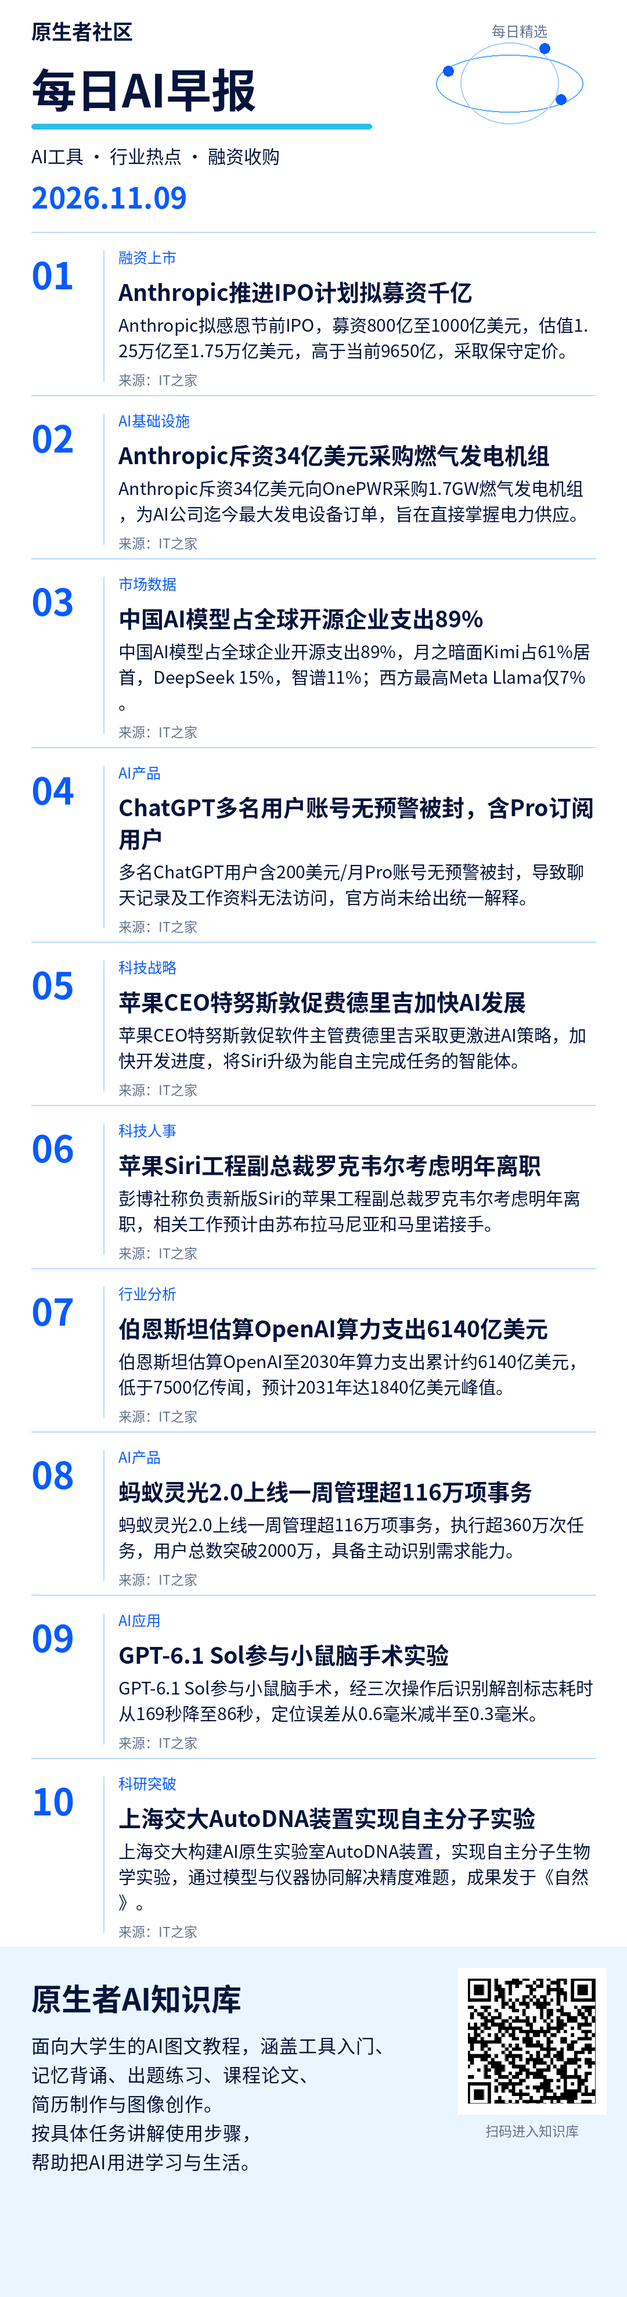
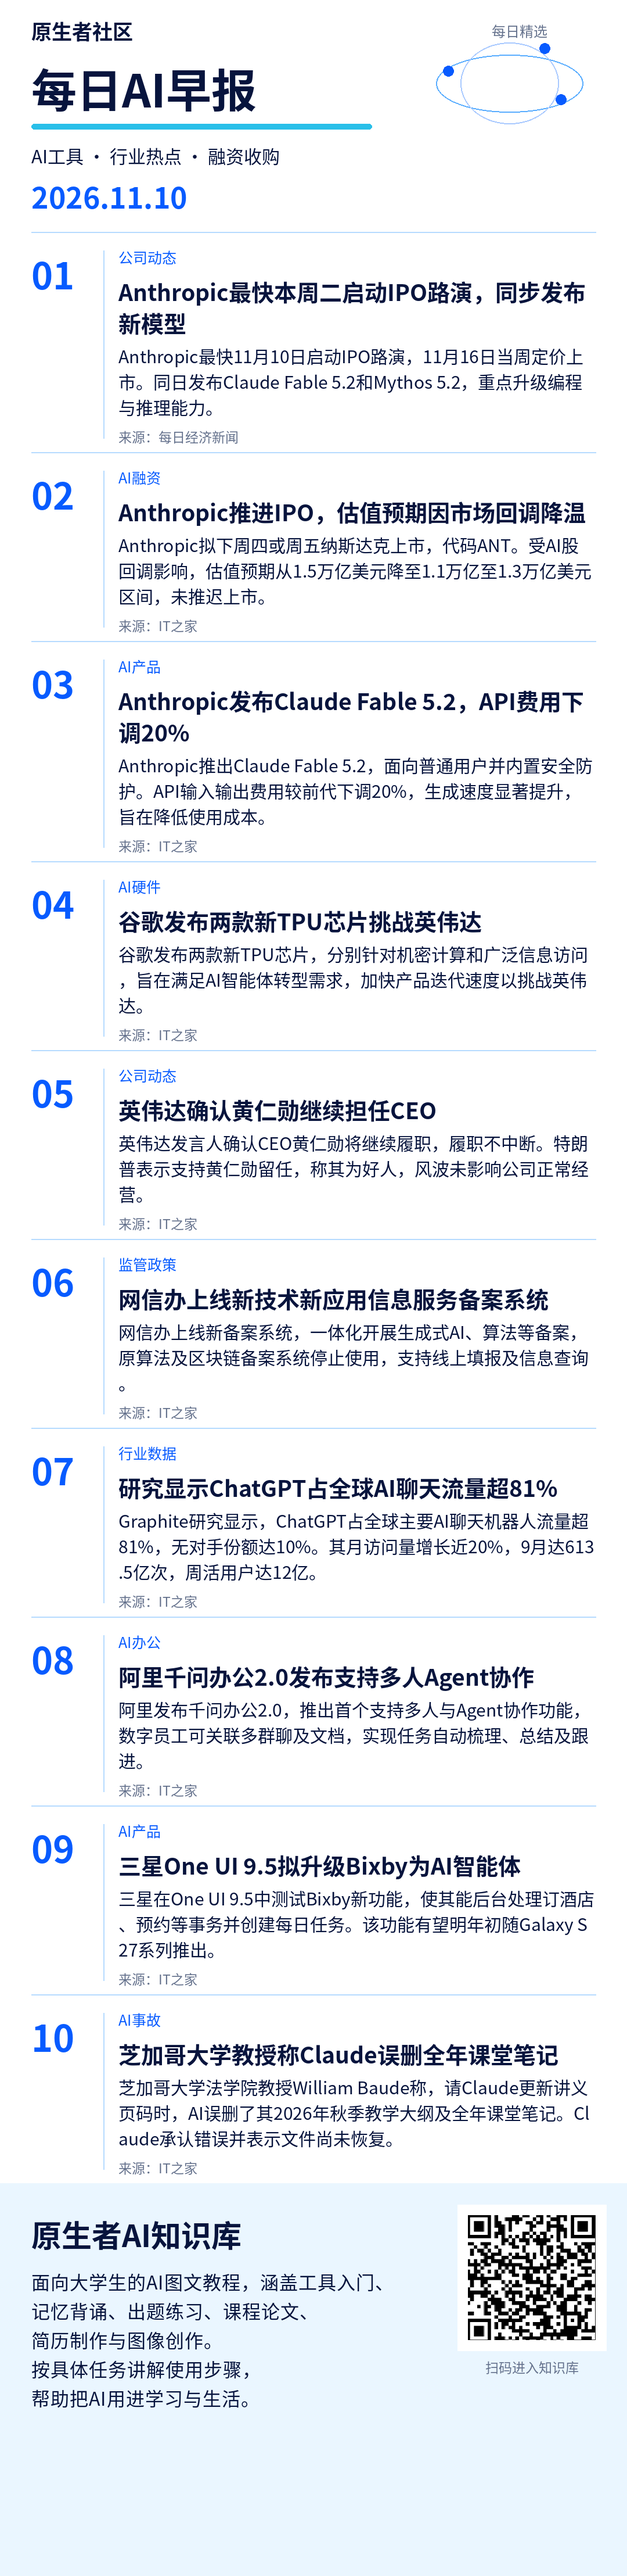
Publish mobile brief 2026-11-10

diff --git a/index.html b/index.html
@@ -2,16 +2,16 @@
 <html lang="zh-CN"><meta charset="utf-8"><meta name="viewport" content="width=device-width, initial-scale=1">
 <title>原生者社区 · 每日AI早报</title>
 <style>body{margin:0;background:#f4f6fa;color:#18263d;font-family:system-ui,sans-serif}main{max-width:680px;margin:auto;padding:24px 16px}h1{font-size:25px;margin:8px 0}p{line-height:1.7}small{color:#59677c}section{background:white;padding:20px;border-radius:16px;margin:20px 0}img{width:100%;height:auto;display:block}a,button{display:inline-block;background:#182f55;color:white;padding:12px 18px;border:0;border-radius:10px;text-decoration:none;font-size:16px}textarea{box-sizing:border-box;width:100%;height:360px;border:1px solid #d5dce7;border-radius:10px;padding:12px;font:16px/1.7 system-ui;resize:vertical}#status{min-height:28px;color:#345786}</style>
-<main><small>原生者社区</small><h1>每日AI早报</h1><p>2026-11-09</p>
+<main><small>原生者社区</small><h1>每日AI早报</h1><p>2026-11-10</p>
 <section><h2>简报图片</h2><p>长按下面的图片，选择“保存图片”，即可发到群里。</p>
 <a href="brief.png" target="_blank" rel="noopener">打开完整图片</a><p></p><img src="brief.png" alt="原生者社区每日简报"></section>
-<section><h2>每日群发内容</h2><p><a href="https://www.ithome.com/1/023/854.htm" target="_blank" rel="noopener">Anthropic推进IPO计划拟募资千亿</a></p><p><a href="https://www.ithome.com/1/023/989.htm" target="_blank" rel="noopener">Anthropic斥资34亿美元采购燃气发电机组</a></p><p><a href="https://wcno0em1rfbm.feishu.cn/wiki/IcZxwEt2JilbR9krKlKcc0naned" target="_blank" rel="noopener">Gemini 出题与弱项复测导读</a></p><textarea id="copy" readonly>1. Anthropic推进IPO计划拟募资千亿
-https://www.ithome.com/1/023/854.htm
+<section><h2>每日群发内容</h2><p><a href="https://www.nbd.com.cn/articles/2026-11-10/4643164.html" target="_blank" rel="noopener">Anthropic最快本周二启动IPO路演，同步发布新模型</a></p><p><a href="https://www.ithome.com/1/024/576.htm" target="_blank" rel="noopener">Anthropic推进IPO，估值预期因市场回调降温</a></p><p><a href="https://wcno0em1rfbm.feishu.cn/wiki/GwZ5wLwtFiIPYyk8BOdcfTtPnHe" target="_blank" rel="noopener">GPT-6 Astra 最被低估的用法，居然在这里？</a></p><textarea id="copy" readonly>1. Anthropic最快本周二启动IPO路演，同步发布新模型
+https://www.nbd.com.cn/articles/2026-11-10/4643164.html
 
-2. Anthropic斥资34亿美元采购燃气发电机组
-https://www.ithome.com/1/023/989.htm
+2. Anthropic推进IPO，估值预期因市场回调降温
+https://www.ithome.com/1/024/576.htm
 
-这篇展示用教材或研究报告生成测验、查看反馈，再针对薄弱部分重新出题的过程，适合做完一轮练习后查漏补缺。
-https://wcno0em1rfbm.feishu.cn/wiki/IcZxwEt2JilbR9krKlKcc0naned</textarea><p></p>
+参考作者对写作措辞、长对话与功能使用的整理；具体功能与适用条件需结合所用版本判断。
+https://wcno0em1rfbm.feishu.cn/wiki/GwZ5wLwtFiIPYyk8BOdcfTtPnHe</textarea><p></p>
 <button id="copyButton" type="button">复制群发内容</button><p id="status" role="status"></p></section></main>
 <script>document.getElementById('copyButton').onclick=async()=>{const t=document.getElementById('copy');const s=document.getElementById('status');try{await navigator.clipboard.writeText(t.value);s.textContent='已复制，可以粘贴到群里。';}catch(e){t.focus();t.select();t.setSelectionRange(0,t.value.length);try{if(!document.execCommand('copy'))throw Error();s.textContent='已复制，可以粘贴到群里。';}catch(e){s.textContent='已选中配文，请长按文字，选择复制。';}}};</script></html>

diff --git a/2026-11-10/176a9b74aee4fb29/index.html b/2026-11-10/176a9b74aee4fb29/index.html
@@ -1,0 +1,17 @@
+<!doctype html>
+<html lang="zh-CN"><meta charset="utf-8"><meta name="viewport" content="width=device-width, initial-scale=1">
+<title>原生者社区 · 每日AI早报</title>
+<style>body{margin:0;background:#f4f6fa;color:#18263d;font-family:system-ui,sans-serif}main{max-width:680px;margin:auto;padding:24px 16px}h1{font-size:25px;margin:8px 0}p{line-height:1.7}small{color:#59677c}section{background:white;padding:20px;border-radius:16px;margin:20px 0}img{width:100%;height:auto;display:block}a,button{display:inline-block;background:#182f55;color:white;padding:12px 18px;border:0;border-radius:10px;text-decoration:none;font-size:16px}textarea{box-sizing:border-box;width:100%;height:360px;border:1px solid #d5dce7;border-radius:10px;padding:12px;font:16px/1.7 system-ui;resize:vertical}#status{min-height:28px;color:#345786}</style>
+<main><small>原生者社区</small><h1>每日AI早报</h1><p>2026-11-10</p>
+<section><h2>简报图片</h2><p>长按下面的图片，选择“保存图片”，即可发到群里。</p>
+<a href="brief.png" target="_blank" rel="noopener">打开完整图片</a><p></p><img src="brief.png" alt="原生者社区每日简报"></section>
+<section><h2>每日群发内容</h2><p><a href="https://www.nbd.com.cn/articles/2026-11-10/4643164.html" target="_blank" rel="noopener">Anthropic最快本周二启动IPO路演，同步发布新模型</a></p><p><a href="https://www.ithome.com/1/024/576.htm" target="_blank" rel="noopener">Anthropic推进IPO，估值预期因市场回调降温</a></p><p><a href="https://wcno0em1rfbm.feishu.cn/wiki/GwZ5wLwtFiIPYyk8BOdcfTtPnHe" target="_blank" rel="noopener">GPT-6 Astra 最被低估的用法，居然在这里？</a></p><textarea id="copy" readonly>1. Anthropic最快本周二启动IPO路演，同步发布新模型
+https://www.nbd.com.cn/articles/2026-11-10/4643164.html
+
+2. Anthropic推进IPO，估值预期因市场回调降温
+https://www.ithome.com/1/024/576.htm
+
+参考作者对写作措辞、长对话与功能使用的整理；具体功能与适用条件需结合所用版本判断。
+https://wcno0em1rfbm.feishu.cn/wiki/GwZ5wLwtFiIPYyk8BOdcfTtPnHe</textarea><p></p>
+<button id="copyButton" type="button">复制群发内容</button><p id="status" role="status"></p></section></main>
+<script>document.getElementById('copyButton').onclick=async()=>{const t=document.getElementById('copy');const s=document.getElementById('status');try{await navigator.clipboard.writeText(t.value);s.textContent='已复制，可以粘贴到群里。';}catch(e){t.focus();t.select();t.setSelectionRange(0,t.value.length);try{if(!document.execCommand('copy'))throw Error();s.textContent='已复制，可以粘贴到群里。';}catch(e){s.textContent='已选中配文，请长按文字，选择复制。';}}};</script></html>

diff --git a/2026-11-10/index.html b/2026-11-10/index.html
@@ -1,0 +1,17 @@
+<!doctype html>
+<html lang="zh-CN"><meta charset="utf-8"><meta name="viewport" content="width=device-width, initial-scale=1">
+<title>原生者社区 · 每日AI早报</title>
+<style>body{margin:0;background:#f4f6fa;color:#18263d;font-family:system-ui,sans-serif}main{max-width:680px;margin:auto;padding:24px 16px}h1{font-size:25px;margin:8px 0}p{line-height:1.7}small{color:#59677c}section{background:white;padding:20px;border-radius:16px;margin:20px 0}img{width:100%;height:auto;display:block}a,button{display:inline-block;background:#182f55;color:white;padding:12px 18px;border:0;border-radius:10px;text-decoration:none;font-size:16px}textarea{box-sizing:border-box;width:100%;height:360px;border:1px solid #d5dce7;border-radius:10px;padding:12px;font:16px/1.7 system-ui;resize:vertical}#status{min-height:28px;color:#345786}</style>
+<main><small>原生者社区</small><h1>每日AI早报</h1><p>2026-11-10</p>
+<section><h2>简报图片</h2><p>长按下面的图片，选择“保存图片”，即可发到群里。</p>
+<a href="brief.png" target="_blank" rel="noopener">打开完整图片</a><p></p><img src="brief.png" alt="原生者社区每日简报"></section>
+<section><h2>每日群发内容</h2><p><a href="https://www.nbd.com.cn/articles/2026-11-10/4643164.html" target="_blank" rel="noopener">Anthropic最快本周二启动IPO路演，同步发布新模型</a></p><p><a href="https://www.ithome.com/1/024/576.htm" target="_blank" rel="noopener">Anthropic推进IPO，估值预期因市场回调降温</a></p><p><a href="https://wcno0em1rfbm.feishu.cn/wiki/GwZ5wLwtFiIPYyk8BOdcfTtPnHe" target="_blank" rel="noopener">GPT-6 Astra 最被低估的用法，居然在这里？</a></p><textarea id="copy" readonly>1. Anthropic最快本周二启动IPO路演，同步发布新模型
+https://www.nbd.com.cn/articles/2026-11-10/4643164.html
+
+2. Anthropic推进IPO，估值预期因市场回调降温
+https://www.ithome.com/1/024/576.htm
+
+参考作者对写作措辞、长对话与功能使用的整理；具体功能与适用条件需结合所用版本判断。
+https://wcno0em1rfbm.feishu.cn/wiki/GwZ5wLwtFiIPYyk8BOdcfTtPnHe</textarea><p></p>
+<button id="copyButton" type="button">复制群发内容</button><p id="status" role="status"></p></section></main>
+<script>document.getElementById('copyButton').onclick=async()=>{const t=document.getElementById('copy');const s=document.getElementById('status');try{await navigator.clipboard.writeText(t.value);s.textContent='已复制，可以粘贴到群里。';}catch(e){t.focus();t.select();t.setSelectionRange(0,t.value.length);try{if(!document.execCommand('copy'))throw Error();s.textContent='已复制，可以粘贴到群里。';}catch(e){s.textContent='已选中配文，请长按文字，选择复制。';}}};</script></html>
